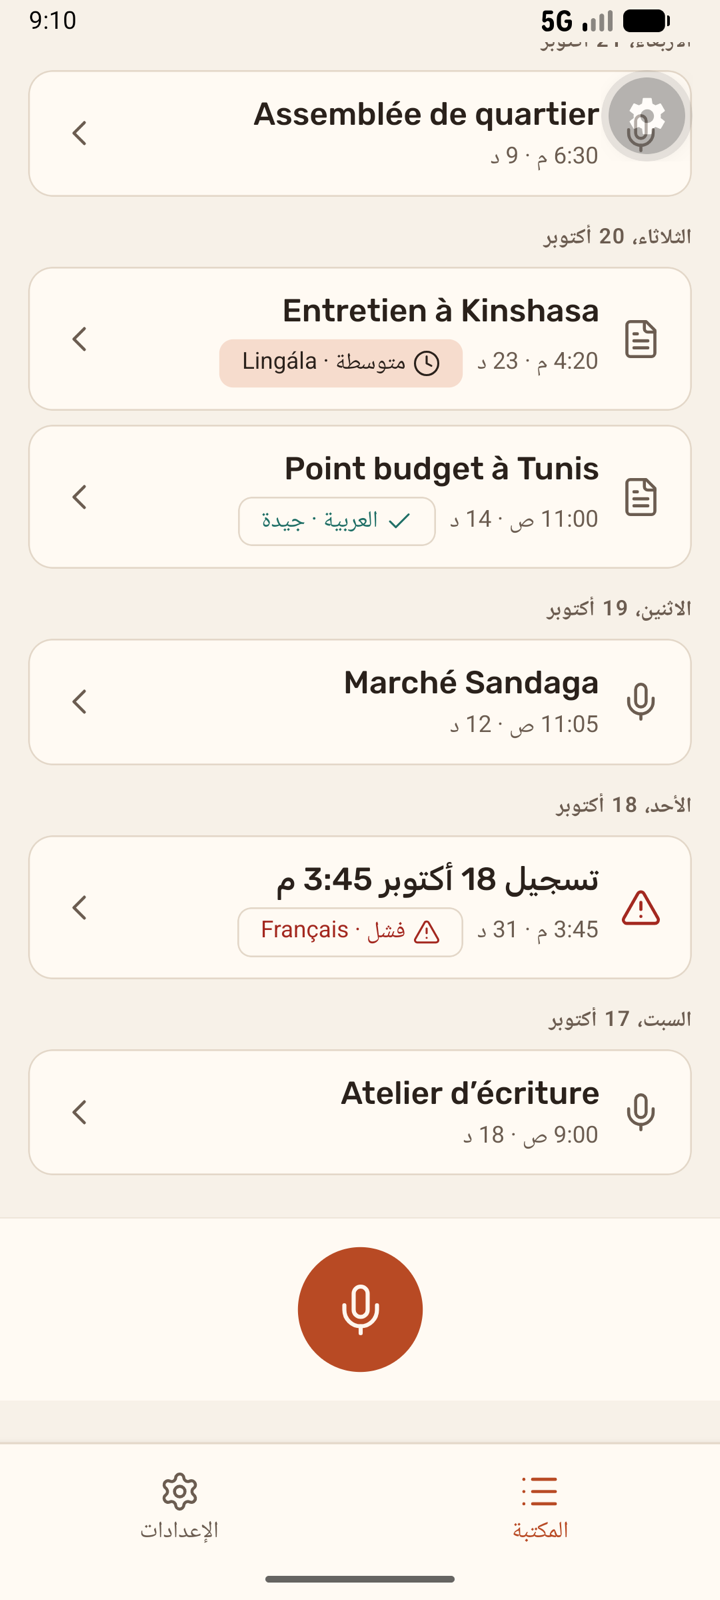
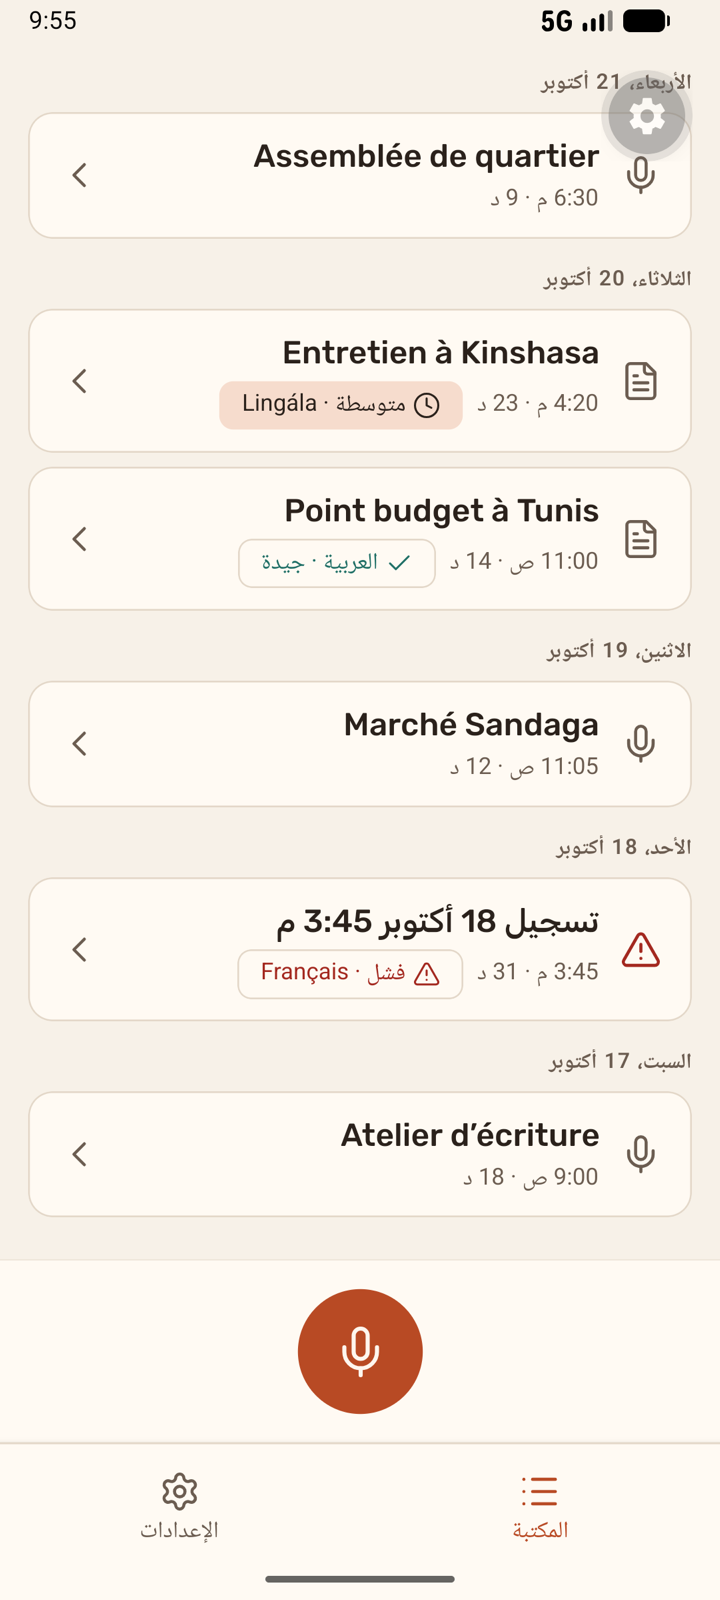
step-1c: rest the record bar on the tab bar
Tab screens added the bottom safe-area inset that the tab bar already
carries, leaving a strip of surface between the record bar and the tab
bar. Tab screens now skip the bottom edge, so both bars form one block.

diff --git a/src/ui/components/Screen.tsx b/src/ui/components/Screen.tsx
@@ -1,6 +1,6 @@
 import type { ReactNode } from 'react';
 import { StyleSheet, View } from 'react-native';
-import { SafeAreaView } from 'react-native-safe-area-context';
+import { SafeAreaView, type Edge } from 'react-native-safe-area-context';
 
 import { useTheme } from '../theme';
 
@@ -8,11 +8,17 @@ import { useTheme } from '../theme';
  * Themed, safe-area aware screen container; screens carry their own titles (no navigation
  * header). Insets are physical; content spacing uses start/end.
  */
-export function Screen({ children }: { children: ReactNode }) {
+const ALL_EDGES: Edge[] = ['top', 'left', 'right', 'bottom'];
+
+/** Tab screens: the tab bar carries the bottom inset, so the screen must not add it again. */
+export const TAB_SCREEN_EDGES: Edge[] = ['top', 'left', 'right'];
+
+export function Screen({ children, edges = ALL_EDGES }: { children: ReactNode; edges?: Edge[] }) {
   const theme = useTheme();
   return (
     <SafeAreaView
-      edges={['top', 'left', 'right', 'bottom']}
+      testID="screen"
+      edges={edges}
       style={[styles.root, { backgroundColor: theme.color['surface'] }]}
     >
       <View style={styles.root}>{children}</View>

diff --git a/app/(tabs)/settings.tsx b/app/(tabs)/settings.tsx
@@ -9,7 +9,7 @@ import { totalBytes } from '@/features/library/storage';
 import { useTranscriptionLanguage } from '@/features/settings/transcriptionLanguage';
 import { useReturnFocus } from '@/features/settings/useReturnFocus';
 import { findTranscriptionLanguage } from '@/services/transcription/languages';
-import { AppText, OptionGroup, OptionRow, Screen, space } from '@/ui';
+import { AppText, OptionGroup, OptionRow, Screen, space, TAB_SCREEN_EDGES } from '@/ui';
 import { formatBytes, type Translate } from '@/ui/format/display';
 
 import { interfaceLanguageOptions } from '../settings/interface-language';
@@ -47,7 +47,7 @@ export default function SettingsScreen() {
   const usedBytes = totalBytes([...library.list(), ...library.listTrash()]);
 
   return (
-    <Screen>
+    <Screen edges={TAB_SCREEN_EDGES}>
       <ScrollView contentContainerStyle={styles.content}>
         <AppText variant="title" accessibilityRole="header" style={styles.title}>
           {t('settings.title')}

diff --git a/__tests__/screens/record.test.tsx b/__tests__/screens/record.test.tsx
@@ -208,6 +208,11 @@ describe('Library list from the manifests', () => {
     expect(StyleSheet.flatten(bar.props.style).backgroundColor).toBe(color.light['surface-raised']);
     expect(screen.getByRole('button', { name: 'Enregistrer' })).toBeOnTheScreen();
     expect(screen.queryByText('Enregistrer', { includeHiddenElements: true })).toBeNull();
+    // The bar rests on the tab bar, which carries the bottom inset: no inset in between.
+    // The native view receives the edges as a map, `off` for the ones left out.
+    const edges = screen.getByTestId('screen').props.edges as Record<string, string>;
+    expect(edges.bottom ?? 'off').toBe('off');
+    expect(edges.top).not.toBe('off');
   });
 
   it('has no hard-coded string with recordings (pseudo-locale)', async () => {

diff --git a/app/(tabs)/index.tsx b/app/(tabs)/index.tsx
@@ -25,6 +25,7 @@ import {
   RecordButton,
   RecordingCard,
   Screen,
+  TAB_SCREEN_EDGES,
   SearchField,
   SplitLayout,
   space,
@@ -263,7 +264,7 @@ export default function LibraryScreen() {
   const menuTitle = menuFor ? itemTitle(menuFor, now, i18n.language, t) : '';
 
   return (
-    <Screen>
+    <Screen edges={TAB_SCREEN_EDGES}>
       <SplitLayout
         list={
           <View style={styles.fill}>

diff --git a/src/ui/index.ts b/src/ui/index.ts
@@ -1,6 +1,6 @@
 export { AppText } from './components/AppText';
 export { Icon, type IconName } from './components/Icon';
-export { Screen } from './components/Screen';
+export { Screen, TAB_SCREEN_EDGES } from './components/Screen';
 export { SplitLayout } from './layout/SplitLayout';
 export { getLayoutMode, useLayoutMode } from './layout/useLayoutMode';
 export * from './layout/tabBar';

diff --git a/docs/DECISIONS.md b/docs/DECISIONS.md
@@ -668,4 +668,5 @@ Décisions de l'étape : D-020 à D-028. L'enregistrement continue aussi après 
   - `RecordButton` accepte désormais d'être sans libellé ; Arrêter garde le sien sur l'écran Enregistrement.
   - La marge basse calculée de D-030 et D-031 (`LIST_BOTTOM_MARGIN`, `listBottomMargin`) est supprimée ; la clé `library.record` aussi.
 - **Vérifié** : Jest (la barre suit la liste au lieu de la recouvrir, aucun texte « Enregistrer » à l'écran) ; émulateur, liste défilée tout en bas : la dernière carte est entièrement lisible au-dessus de la barre. Captures `docs/captures/step-1c/d034-bibliotheque-bas-{fr-clair,fr-sombre,ar-clair}.png`.
+- **Correction (relecture du propriétaire)** : une bande de `surface` d'environ 15 px séparait la barre Enregistrer de la barre d'onglets. `Screen` appliquait la marge sûre du bas, que la barre d'onglets porte déjà. Les écrans d'onglet passent maintenant `TAB_SCREEN_EDGES` (haut, gauche, droite) : la barre Enregistrer s'appuie directement sur la barre d'onglets, et le bloc est continu. Un test le vérifie (il échoue sans la correction). Les trois captures `d034-*` ont été reprises après correction.
 - **Périmètre, réglage « Appels »** : le réglage à trois modes par type d'appel entrant et sortant appartient à l'étape 6b, passée en 1.1, et aucun de ses modes n'enregistre l'audio d'un appel. Vérifié : le code et les traductions n'en contiennent aucune trace, ni écran, ni clé, ni permission `READ_PHONE_STATE`. Les seuls textes liés aux appels sont les bannières d'interruption de l'écran Enregistrement (D-023).
